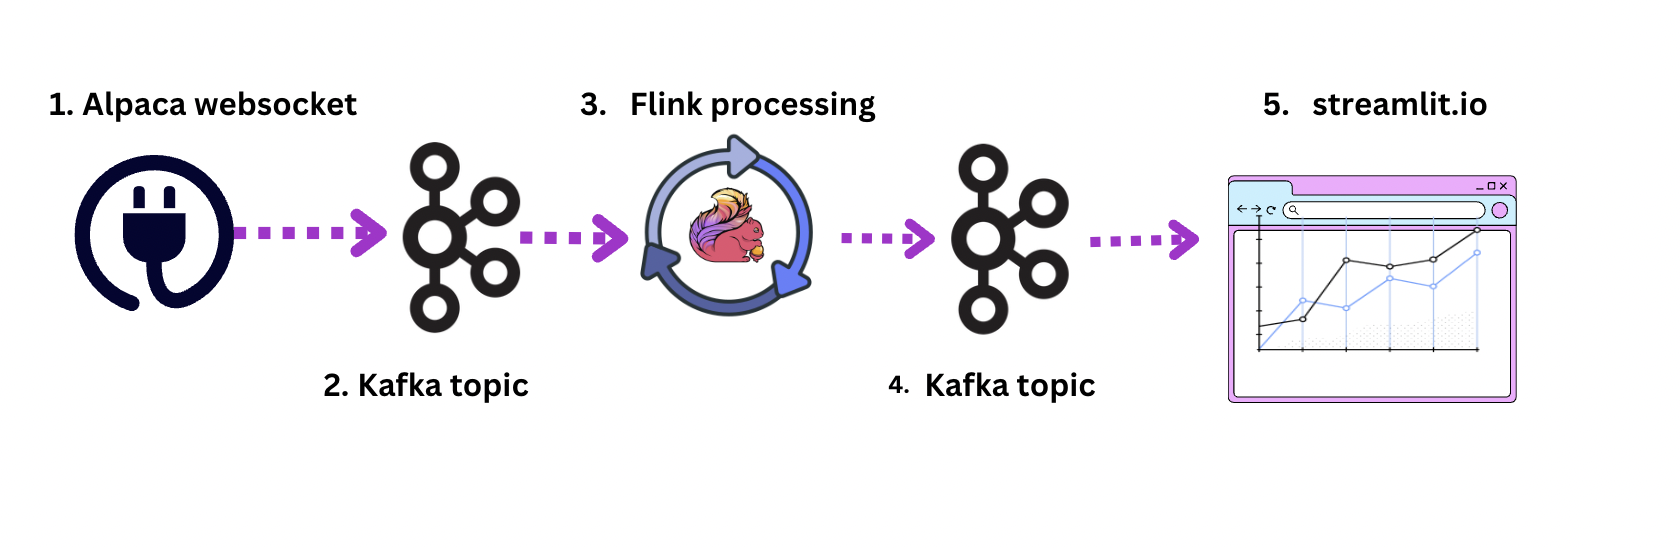
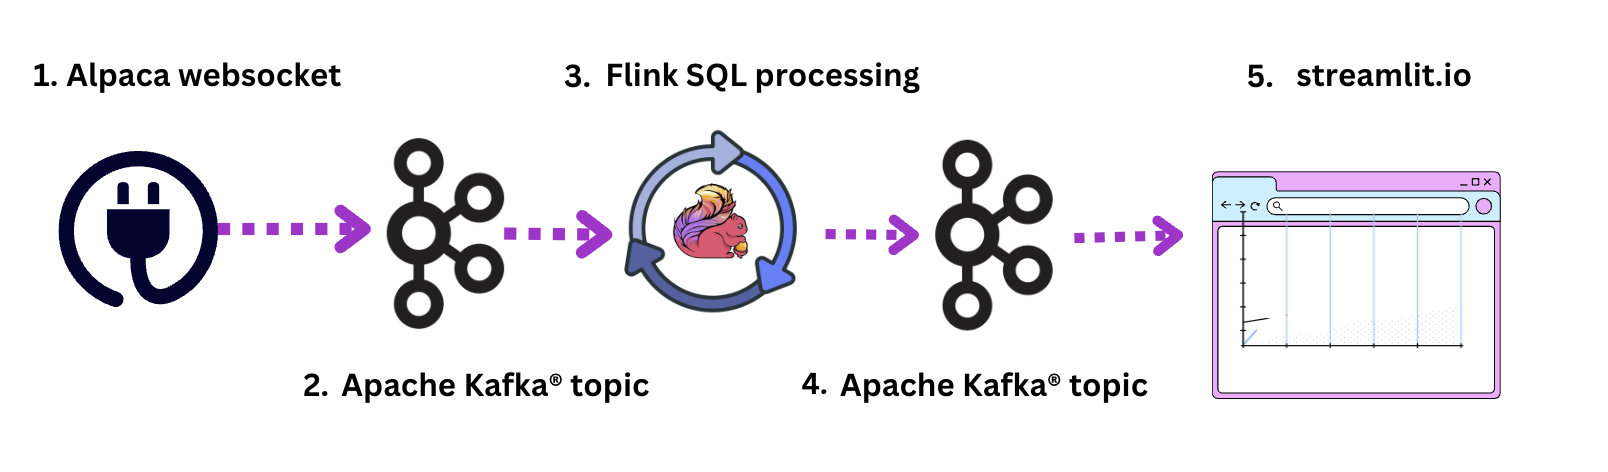
branding

diff --git a/alpacaviz.py b/alpacaviz.py
@@ -143,7 +143,7 @@ st.image(
     caption="chart graphing relationship of different nodes in the data pipeline",
 )
 st.markdown(
-    "First, data is piped from the [Alpaca API](https://docs.alpaca.markets/docs/getting-started) websocket into a Kafka topic located in Confluent Cloud. Next, the data is processed in [Confluent Cloud’s](https://confluent.cloud/) Flink SQL workspace with a query like this."
+    "First, data is piped from the [Alpaca API](https://docs.alpaca.markets/docs/getting-started) websocket into an Apache Kafka® topic located in Confluent Cloud. Next, the data is processed in [Confluent Cloud’s](https://confluent.cloud/) Flink SQL workspace with a query like this."
 )
 st.code(
     """INSERT INTO tumble_interval
